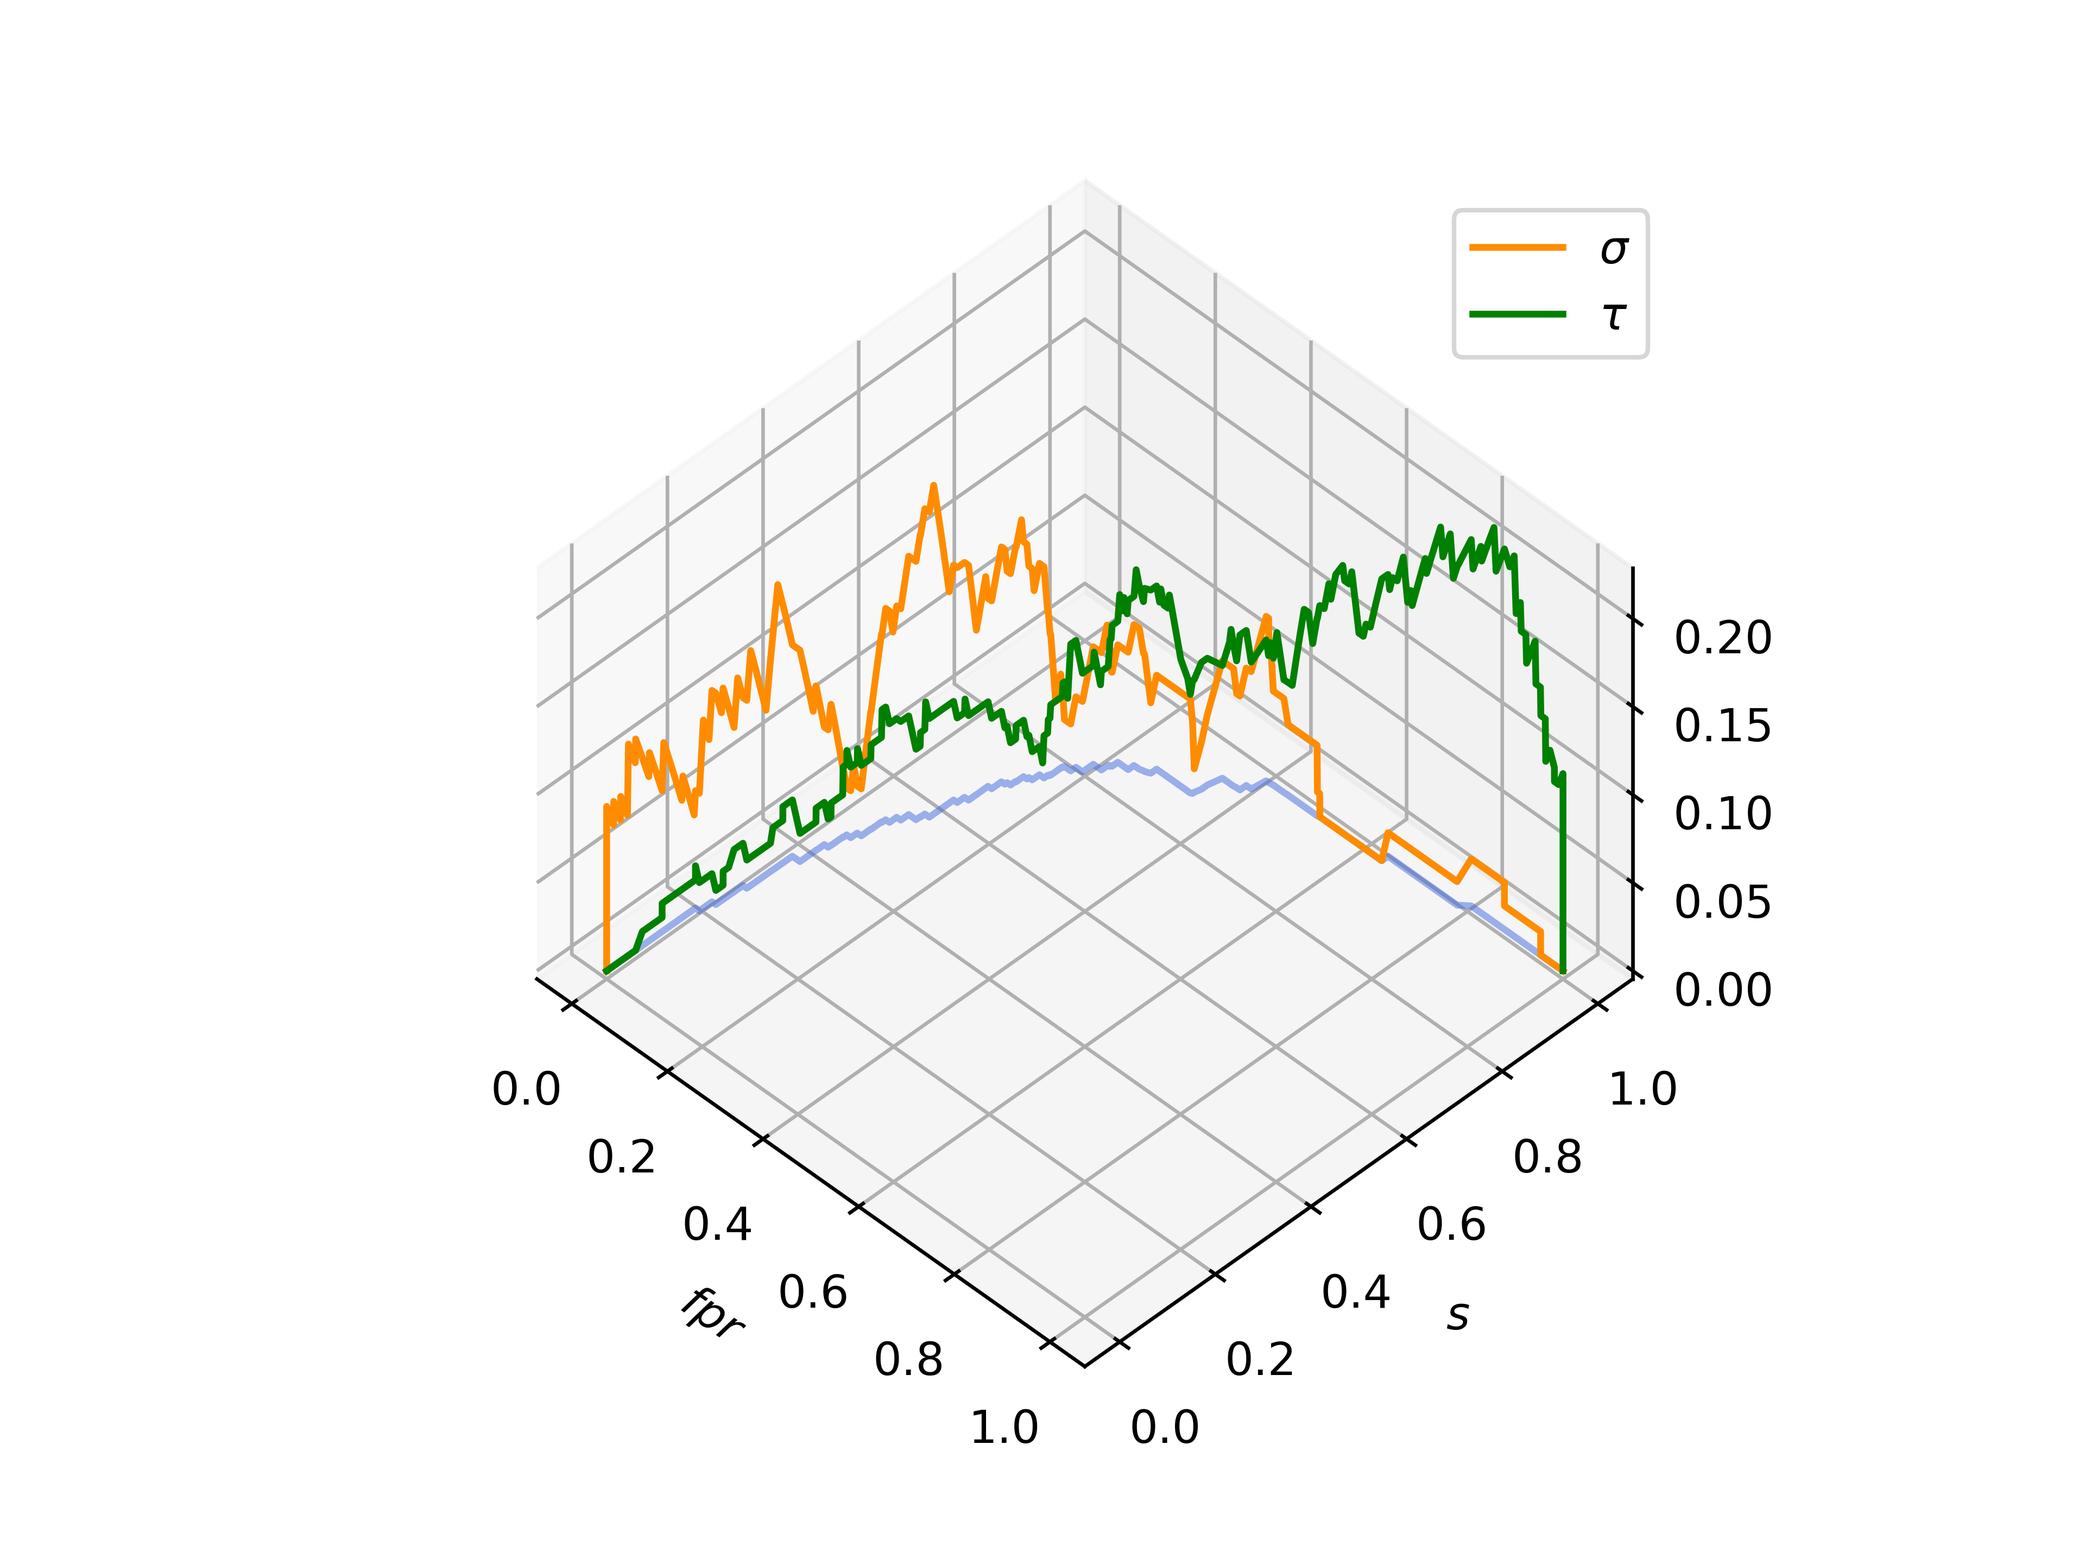
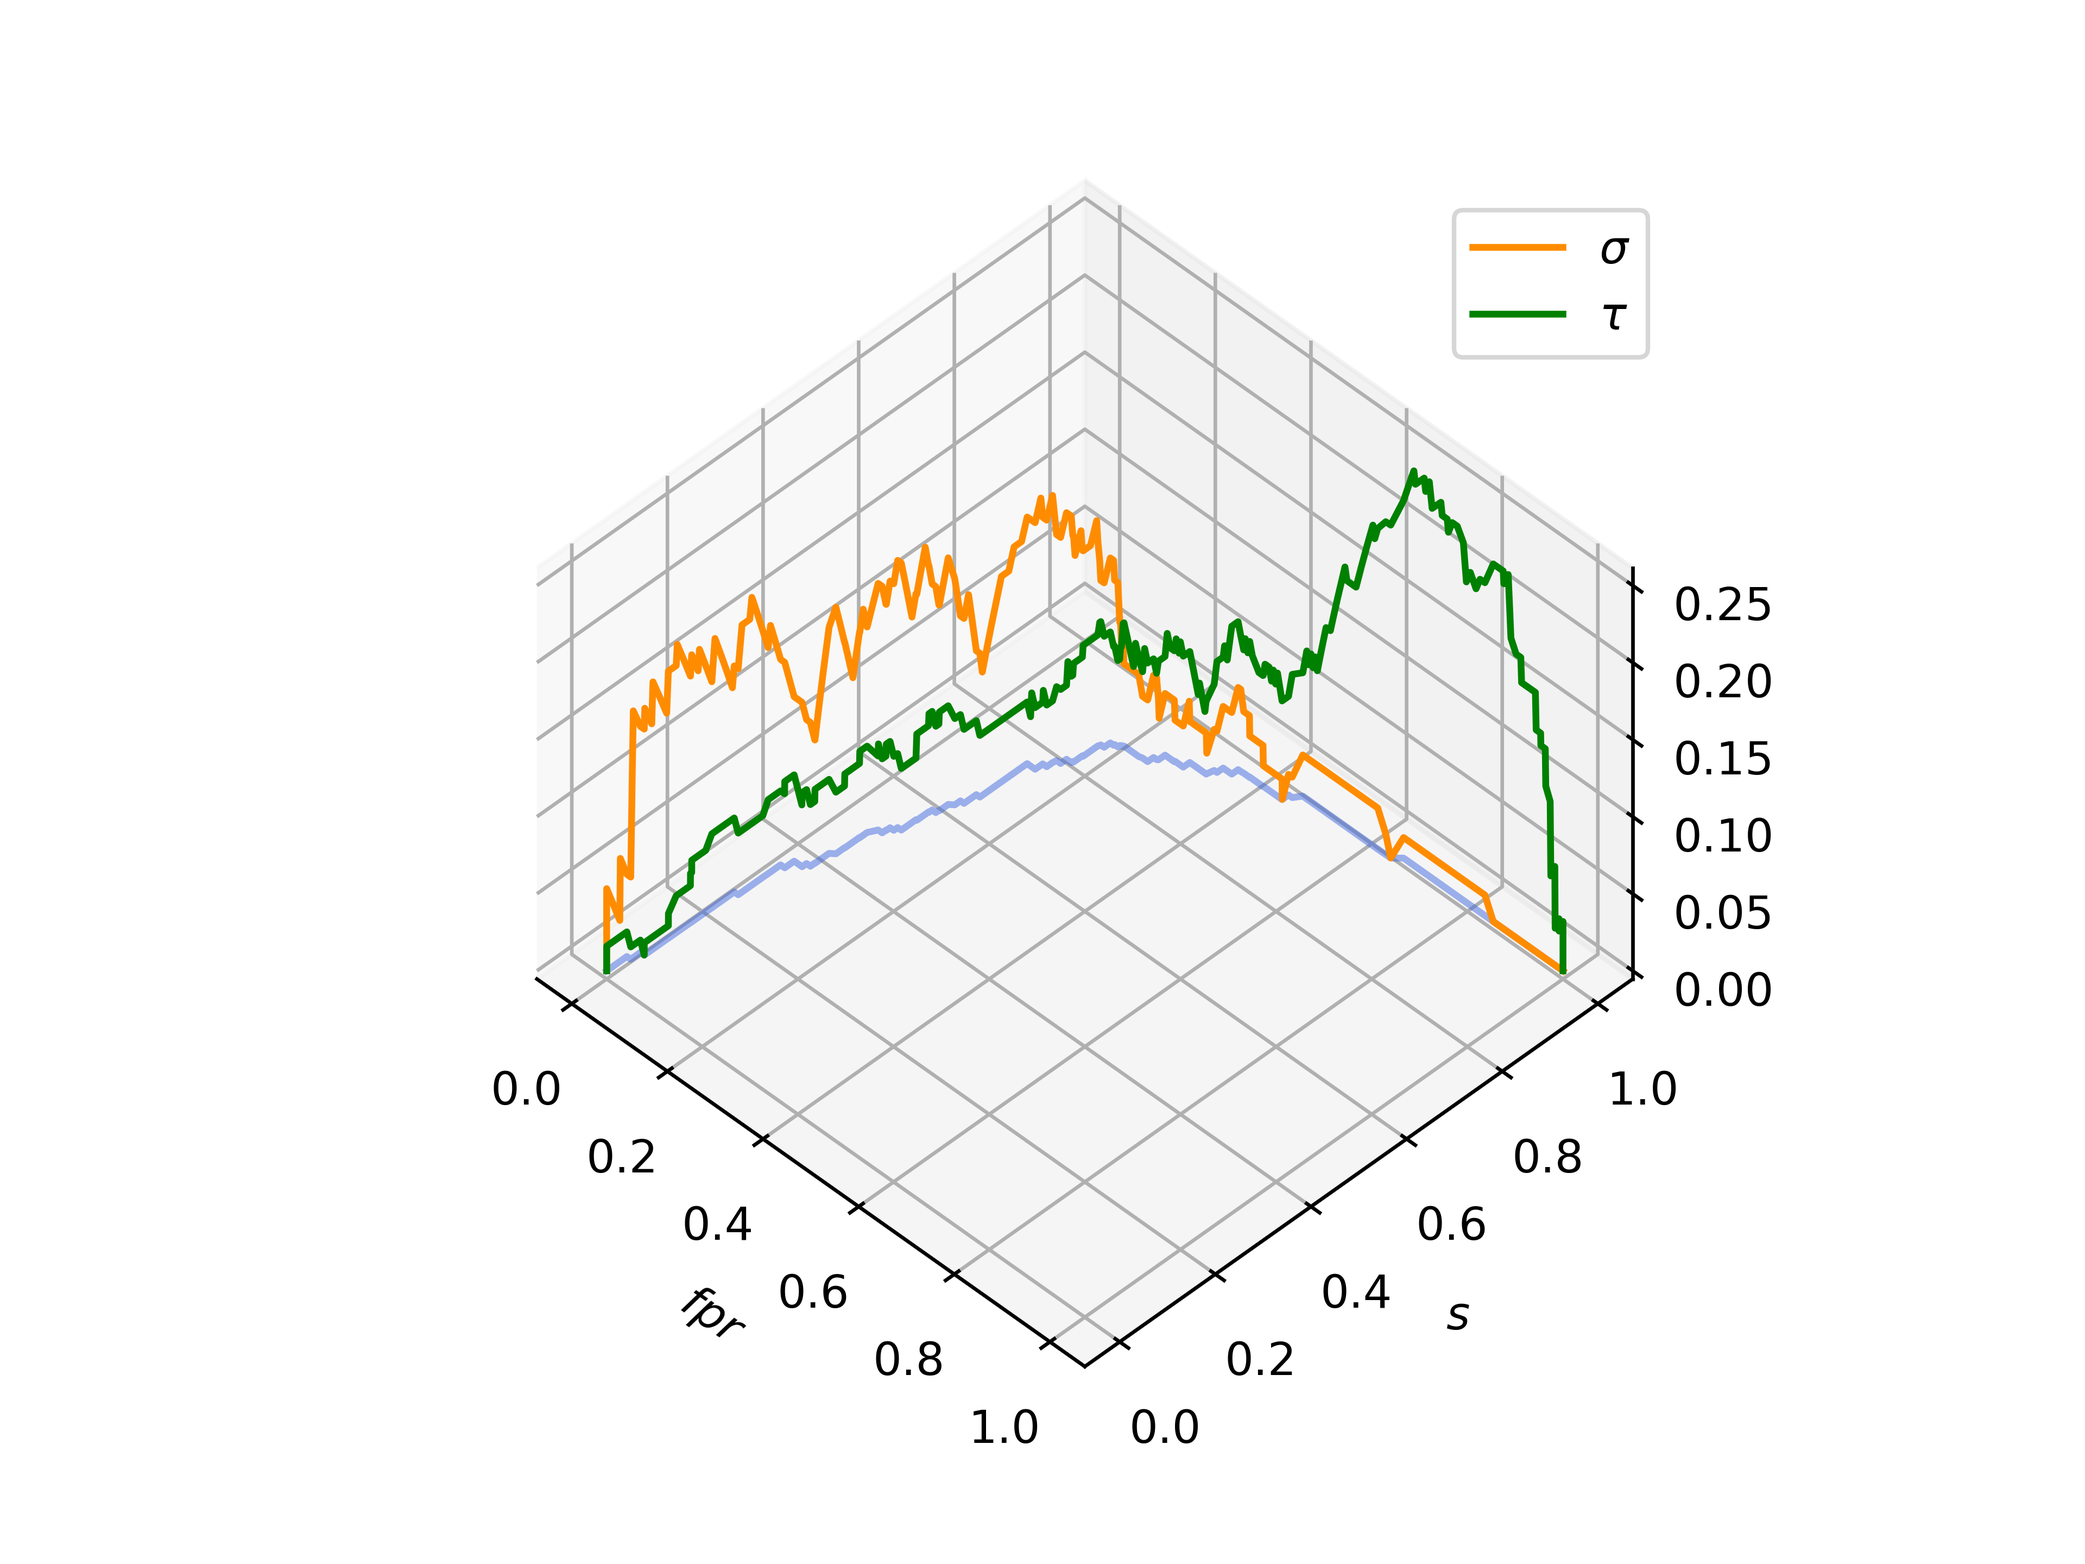
08MAR.01

diff --git a/redwine.py b/redwine.py
@@ -13,7 +13,7 @@ from LRF import *
 wine_data = pd.read_csv('winequality-red.csv',index_col = None,usecols = ['volatile acidity','citric acid','chlorides','pH','sulphates','alcohol','quality'])
 
 # Split the data into test/train factors and result and generate uncertain points
-random.seed(760) # for reproducability best 587 760
+random.seed(587) # for reproducability best 587 760
 goodwine = 7 # with with quality >= goodwine is considered high quality
 results = wine_data['quality'] >= goodwine
 
@@ -25,6 +25,8 @@ uq_data_index = random.sample([i for i in train_data.index if wine_data.loc[i,'q
 nuq_data_index = [i for i in train_data_index if i not in uq_data_index]
 
 uq_data = train_data.loc[uq_data_index]
+uq_results = pd.Series([pba.I(0,1)]*len(uq_data_index),index = uq_data_index,dtype = 'O')
+
 nuq_data = train_data.loc[nuq_data_index]
 nuq_results = train_results.loc[nuq_data_index]
 
@@ -40,165 +42,171 @@ uq_models = uc_logistic_regression(train_data,train_results,uq_data)
 nuq = LogisticRegression(max_iter=1000)
 nuq.fit(nuq_data.to_numpy(),nuq_results.to_numpy())
 
-### Get confusion matrix
-# Classify train data
-base_predict = base.predict(train_data)
+# ### Get confusion matrix
+# # Classify train data
+# base_predict = base.predict(train_data)
 
-# CLASSIFY NO_UQ MODEL DATA 
-nuq_predict = nuq.predict(train_data)
+# # CLASSIFY NO_UQ MODEL DATA 
+# nuq_predict = nuq.predict(train_data)
 
-# CLASSIFY UQ MODEL 
-train_predict = pd.DataFrame(columns = uq_models.keys())
+# # CLASSIFY UQ MODEL 
+# train_predict = pd.DataFrame(columns = uq_models.keys())
 
-for key, model in uq_models.items():
-    train_predict[key] = model.predict(train_data)
+# for key, model in uq_models.items():
+#     train_predict[key] = model.predict(train_data)
     
-predictions = []
-for i in train_predict.index:
-    predictions.append([min(train_predict.loc[i]),max(train_predict.loc[i])])
+# predictions = []
+# for i in train_predict.index:
+#     predictions.append([min(train_predict.loc[i]),max(train_predict.loc[i])])
 
-with open('runinfo/redwine_cm.out','w') as f:
-    print('TRUE MODEL',file = f)
-    a,b,c,d = generate_confusion_matrix(train_results,base_predict)
-    print('TP=%i\tFP=%i\nFN=%i\tTN=%i' %(a,b,c,d),file = f)
+# with open('runinfo/redwine_cm.out','w') as f:
+#     print('TRUE MODEL',file = f)
+#     a,b,c,d = generate_confusion_matrix(train_results,base_predict)
+#     print('TP=%i\tFP=%i\nFN=%i\tTN=%i' %(a,b,c,d),file = f)
 
-    # Calculate sensitivity and specificity
-    print('Sensitivity = %.3f' %(a/(a+c)),file = f)
-    print('Specificity = %.3f' %(d/(b+d)),file = f)
+#     # Calculate sensitivity and specificity
+#     print('Sensitivity = %.3f' %(a/(a+c)),file = f)
+#     print('Specificity = %.3f' %(d/(b+d)),file = f)
 
-    print('DISCARDED DATA MODEL',file = f)
-    aa,bb,cc,dd = generate_confusion_matrix(train_results,nuq_predict)
-    try:
-        ss = 1/(1+cc/aa)
-    except:
-        ss = None
-    try:    
-        tt = 1/(1+bb/dd)
-    except:
-        tt = None
-    print('TP=%s\tFP=%s\nFN=%s\tTN=%s' %(aa,bb,cc,dd),file = f)
+#     print('DISCARDED DATA MODEL',file = f)
+#     aa,bb,cc,dd = generate_confusion_matrix(train_results,nuq_predict)
+#     try:
+#         ss = 1/(1+cc/aa)
+#     except:
+#         ss = None
+#     try:    
+#         tt = 1/(1+bb/dd)
+#     except:
+#         tt = None
+#     print('TP=%s\tFP=%s\nFN=%s\tTN=%s' %(aa,bb,cc,dd),file = f)
 
-    # Calculate sensitivity and specificity
-    print('Sensitivity = %.3f' %(ss),file = f)
-    print('Specificity = %.3f' %(tt),file = f)
+#     # Calculate sensitivity and specificity
+#     print('Sensitivity = %.3f' %(ss),file = f)
+#     print('Specificity = %.3f' %(tt),file = f)
 
-    print('UQ MODEL',file = f)
+#     print('UQ MODEL',file = f)
     
-    aaai,bbbi,ccci,dddi = generate_confusion_matrix(train_results,predictions,throw = False)
-    try:
-        sssi = 1/(1+ccci/aaai)
-    except:
-        sssi = None
-    try:    
-        ttti = 1/(1+bbbi/dddi)
-    except:
-        ttti = None
+#     aaai,bbbi,ccci,dddi = generate_confusion_matrix(train_results,predictions,throw = False)
+#     try:
+#         sssi = 1/(1+ccci/aaai)
+#     except:
+#         sssi = None
+#     try:    
+#         ttti = 1/(1+bbbi/dddi)
+#     except:
+#         ttti = None
         
-    print('TP=[%i,%i]\tFP=[%i,%i]\nFN=[%i,%i]\tTN=[%i,%i]' %(*aaai,*bbbi,*ccci,*dddi),file = f)
+#     print('TP=[%i,%i]\tFP=[%i,%i]\nFN=[%i,%i]\tTN=[%i,%i]' %(*aaai,*bbbi,*ccci,*dddi),file = f)
 
-    # Calculate sensitivity and specificity
-    print('Sensitivity = [%.3f,%.3f]\nSpecificity = [%.3f,%.3f]' %(*sssi,*ttti),file = f)
-    aaa,bbb,ccc,ddd,eee,fff = generate_confusion_matrix(train_results,predictions,throw = True)
-    try:
-        sss = 1/(1+ccc/aaa)
-    except:
-        sss = None
-    try:    
-        ttt = 1/(1+bbb/ddd)
-    except:
-        ttt = None
+#     # Calculate sensitivity and specificity
+#     print('Sensitivity = [%.3f,%.3f]\nSpecificity = [%.3f,%.3f]' %(*sssi,*ttti),file = f)
+#     aaa,bbb,ccc,ddd,eee,fff = generate_confusion_matrix(train_results,predictions,throw = True)
+#     try:
+#         sss = 1/(1+ccc/aaa)
+#     except:
+#         sss = None
+#     try:    
+#         ttt = 1/(1+bbb/ddd)
+#     except:
+#         ttt = None
         
-    print('TP=%i\tFP=%i\nFN=%i\tTN=%i\nNP(+)=%i\tNP(-)=%i' %(aaa,bbb,ccc,ddd,eee,fff),file = f)
+#     print('TP=%i\tFP=%i\nFN=%i\tTN=%i\nNP(+)=%i\tNP(-)=%i' %(aaa,bbb,ccc,ddd,eee,fff),file = f)
 
-    # Calculate sensitivity and specificity
-    print('Sensitivity = %.3f' %(sss),file = f)
-    print('Specificity = %.3f' %(ttt),file = f)
+#     # Calculate sensitivity and specificity
+#     print('Sensitivity = %.3f' %(sss),file = f)
+#     print('Specificity = %.3f' %(ttt),file = f)
 
-### Descriminatory Performance Plots
-s,fpr,predictions = ROC(model = base, data = train_data, results = train_results)
-nuq_s,nuq_fpr,nuq_predictions = ROC(model = nuq, data = train_data, results = train_results)
-s_t, fpr_t, Sigma, Tau, Nu = UQ_ROC_alt(uq_models, train_data, train_results)
+# ### Descriminatory Performance Plots
+# # s,fpr,predictions = ROC(model = base, data = train_data, results = train_results)
+# nuq_s,nuq_fpr,nuq_predictions = ROC(model = nuq, data = train_data, results = train_results)
+# s_t, fpr_t, Sigma, Tau, Nu = UQ_ROC_alt(uq_models, train_data, train_results)
 
-s_i, fpr_i,uq_predictions = UQ_ROC(uq_models, train_data, train_results)
+# s_i, fpr_i,uq_predictions = UQ_ROC(uq_models, train_data, train_results)
 
-densfig,axdens = plt.subplots(nrows = 2, sharex= True)
+# densfig,axdens = plt.subplots(nrows = 2, sharex= True)
 
-for i,(p,u,nuqp,r) in enumerate(zip(predictions,uq_predictions,nuq_predictions,train_results.to_list())):
-    yd = np.random.uniform(-0.11,-.31)
-    if r:
-        axdens[0].scatter(p,np.random.uniform(-0.1,0.1),color = 'k',marker = 'o',alpha = 0.5)
-        axdens[0].scatter(nuqp,np.random.uniform(0.11,0.31),color = '#DC143C',marker = 'o',alpha = 0.5)
-        axdens[0].plot([u[0],u[1]],[yd,yd],color = '#4169E1',alpha = 0.3)
-        axdens[0].scatter([u[0],u[1]],[yd,yd],color = '#4169E1',marker = '|')
-    else:
-        axdens[1].scatter(p,np.random.uniform(-.1,0.1),color = 'k',marker = 'o',alpha = 0.5)
-        axdens[1].scatter(nuqp,np.random.uniform(0.11,.31),color = '#DC143C',marker = 'o',alpha = 0.5)
-        axdens[1].plot([u[0],u[1]],[yd,yd],color = '#4169E1',alpha = 0.3)
-        axdens[1].scatter([u[0],u[1]],[yd,yd],color = '#4169E1',marker = '|')
+# for i,(p,u,nuqp,r) in enumerate(zip(predictions,uq_predictions,nuq_predictions,train_results.to_list())):
+#     yd = np.random.uniform(-0.01,-.31)
+#     if r:
+#         # axdens[0].scatter(p,np.random.uniform(-0.1,0.1),color = 'k',marker = 'o',alpha = 0.5)
+#         axdens[0].scatter(nuqp,np.random.uniform(0.01,0.31),color = '#DC143C',marker = 'o',alpha = 0.5)
+#         axdens[0].plot([u[0],u[1]],[yd,yd],color = '#4169E1',alpha = 0.3)
+#         axdens[0].scatter([u[0],u[1]],[yd,yd],color = '#4169E1',marker = '|')
+#     else:
+#         # axdens[1].scatter(p,np.random.uniform(-.1,0.1),color = 'k',marker = 'o',alpha = 0.5)
+#         axdens[1].scatter(nuqp,np.random.uniform(0.11,.31),color = '#DC143C',marker = 'o',alpha = 0.5)
+#         axdens[1].plot([u[0],u[1]],[yd,yd],color = '#4169E1',alpha = 0.3)
+#         axdens[1].scatter([u[0],u[1]],[yd,yd],color = '#4169E1',marker = '|')
         
         
-axdens[0].set(ylabel = 'Outcome = 1',yticks = [],xlim=[0,1],xticks = [0,0.25,0.50,0.75,1])
-axdens[1].set(xlabel = '$\pi$',ylabel = 'Outcome = 0',yticks = [])
-densfig.tight_layout()
+# axdens[0].set(ylabel = 'Outcome = 1',yticks = [],xlim=[0,1],xticks = [0,0.25,0.50,0.75,1])
+# axdens[1].set(xlabel = '$\pi$',ylabel = 'Outcome = 0',yticks = [])
+# densfig.tight_layout()
 
-rocfig,axroc = plt.subplots(1,1)
-axroc.plot([0,1],[0,1],'k:',label = 'Random Classifier')
-axroc.set(xlabel = '$fpr$',ylabel='$s$')
-axroc.plot(fpr,s,'k',label = 'Base')
-axroc.plot(nuq_fpr,nuq_s,color='#DC143C',linestyle='--',label='No Uncertainty')
-axroc.plot(fpr_t,s_t,'#4169E1',label='Uncertain (No prediction)')
-axroc.legend()
-rocfig.savefig('figs/redwine_ROC.png',dpi = 600)
-rocfig.savefig('../paper/figs/redwine_ROC.png',dpi = 600)
-densfig.savefig('figs/redwine_dens.png',dpi =600)
-densfig.savefig('../paper/figs/redwine_dens.png',dpi =600)
+# rocfig,axroc = plt.subplots(1,1)
+# axroc.plot([0,1],[0,1],'k:',label = 'Random Classifier')
+# axroc.set(xlabel = '$fpr$',ylabel='$s$')
+# # axroc.plot(fpr,s,'k',label = 'Base')
+# axroc.plot(nuq_fpr,nuq_s,color='#DC143C',label='No Uncertainty')
+# axroc.plot(fpr_t,s_t,'#4169E1',label='Uncertain (No prediction)')
+# axroc.legend()
+# rocfig.savefig('figs/redwine_ROC.png',dpi = 600)
+# rocfig.savefig('../paper/figs/redwine_ROC.png',dpi = 600)
+# densfig.savefig('figs/redwine_dens.png',dpi =600)
+# densfig.savefig('../paper/figs/redwine_dens.png',dpi =600)
 
 
-with open('runinfo/redwine_auc.out','w') as f:
-    print('NO UNCERTAINTY: %.3f' %auc(s,fpr), file = f)
-    print('MIDPOINTS: %.4F' %auc(nuq_s,nuq_fpr),file = f)
-    print('THROW: %.3f' %auc(s_t,fpr_t), file = f)
-    # print('INTERVALS: [%.3f,%.3f]' %(auc_int_min,auc_int_max), file = f)
+# with open('runinfo/redwine_auc.out','w') as f:
+#     # print('NO UNCERTAINTY: %.3f' %auc(s,fpr), file = f)
+#     print('MIDPOINTS: %.4F' %auc(nuq_s,nuq_fpr),file = f)
+#     print('THROW: %.3f' %auc(s_t,fpr_t), file = f)
+#     # print('INTERVALS: [%.3f,%.3f]' %(auc_int_min,auc_int_max), file = f)
     
 
 
-fig = plt.figure()
-ax = plt.axes(projection='3d',elev = 45,azim = -45,proj_type = 'ortho')
-ax.set_xlabel('$fpr$')
-ax.set_ylabel('$s$')
-# ax.set_zlabel('$1-\sigma,1-\\tau$')
-ax.plot(fpr_t,s_t,'#4169E1',alpha = 0.5)
-ax.plot3D(fpr_t,s_t,Sigma,'#FF8C00',label = '$\\sigma$')
-ax.plot3D(fpr_t,s_t,Tau,'#008000',label = '$\\tau$')
-# ax.plot3D(fpr,s,Nu,'k',label = '$1-\\nu$')
+# fig = plt.figure()
+# ax = plt.axes(projection='3d',elev = 45,azim = -45,proj_type = 'ortho')
+# ax.set_xlabel('$fpr$')
+# ax.set_ylabel('$s$')
+# # ax.set_zlabel('$1-\sigma,1-\\tau$')
+# ax.plot(fpr_t,s_t,'#4169E1',alpha = 0.5)
+# ax.plot3D(fpr_t,s_t,Sigma,'#FF8C00',label = '$\\sigma$')
+# ax.plot3D(fpr_t,s_t,Tau,'#008000',label = '$\\tau$')
+# # ax.plot3D(fpr,s,Nu,'k',label = '$1-\\nu$')
 
-ax.legend()
+# ax.legend()
 
-plt.savefig('figs/redwine_ROC3D.png',dpi = 600)
-plt.savefig('../paper/figs/redwine_ROC3D.png',dpi = 600)
-plt.clf()
+# plt.savefig('figs/redwine_ROC3D.png',dpi = 600)
+# plt.savefig('../paper/figs/redwine_ROC3D.png',dpi = 600)
+# plt.clf()
 
-plt.xlabel('$fpr$/$s$')
-plt.ylabel('$\\sigma$/$\\tau$')
-plt.plot(s_t,Sigma,'#FF8C00',label = '$\\sigma$ v $s$')
-plt.plot(fpr_t,Tau,'#008000',label = '$\\tau$ v $fpr$')
-plt.legend()
+# plt.xlabel('$fpr$/$s$')
+# plt.ylabel('$\\sigma$/$\\tau$')
+# plt.plot(s_t,Sigma,'#FF8C00',label = '$\\sigma$ v $s$')
+# plt.plot(fpr_t,Tau,'#008000',label = '$\\tau$ v $fpr$')
+# plt.legend()
 
 
-plt.savefig('figs/redwine_ST.png',dpi = 600)
-plt.savefig('../paper/figs/redwine_ST.png',dpi = 600)
+# plt.savefig('figs/redwine_ST.png',dpi = 600)
+# plt.savefig('../paper/figs/redwine_ST.png',dpi = 600)
 
-plt.clf()
+# plt.clf()
 
 ### Hosmer-Lemeshow
-hl_b, pval_b = hosmer_lemeshow_test(base,train_data,train_results,g = 10)
+# hl_b, pval_b = hosmer_lemeshow_test(base,train_data,train_results,g = 10)
 
 hl_nuq, pval_nuq = hosmer_lemeshow_test(nuq,train_data,train_results,g = 10)
+hl_nuq0, pval_nuq0 = hosmer_lemeshow_test(nuq,nuq_data,nuq_results,g = 10)
+
 
 hl_uq, pval_uq = UQ_hosmer_lemeshow_test(uq_models,train_data,train_results,g = 10)
+hl_uq0, pval_uq0 = UQ_hosmer_lemeshow_test(uq_models,pd.concat([nuq_data,uq_data]),pd.concat([nuq_results,uq_results]),g = 10)
+
 
 with open('runinfo/redwine_HL.out','w') as f:
-    print('base\nhl = %.3f, p = %.3f' %(hl_b,pval_b),file = f)
-    print('no UQ\nhl = %.3f, p = %.3f' %(hl_nuq,pval_nuq),file = f) 
-    print('UQ\nhl = [%.3f,%.3f], p = [%.3f,%.3f]' %(*hl_uq,*pval_uq),file = f)
+    print('no UQ\nhl = %.3f, p = %.3f' %(hl_nuq0,pval_nuq0),file = f)
+    print('no UQ(full)\nhl = %.3f, p = %.3f' %(hl_nuq,pval_nuq),file = f) 
+    print('UQ\nhl = [%.3f,%.3f], p = [%.3f,%.3f]' %(*hl_uq0,*pval_uq0),file = f)
+    print('UQ(full)\nhl = [%.3f,%.3f], p = [%.3f,%.3f]' %(*hl_uq,*pval_uq),file = f)
+    
     

diff --git a/LRF.py b/LRF.py
@@ -463,20 +463,21 @@ def UQ_hosmer_lemeshow_test(models, data, results, g=10):
         idx = probs.iloc[round(s*i):round(s*(1+i))].index
 
         buckets[i] = {
-            'observed_cases': sum(results.loc[idx]),
+            'observed_cases': pba.I(sum(results.loc[idx])),
             'expected_cases': sum(probs.loc[idx,1]),
-            'observed_n_cases': len(idx) - sum(results.loc[idx]),
+            'observed_n_cases': pba.I(len(idx) - sum(results.loc[idx])),
             'expected_n_cases': sum(probs.loc[idx,0])
         }
+        
     # print(buckets)
     hl = 0
     for i in range(g):
         
-        cl = ((buckets[i]['observed_cases'] - buckets[i]['expected_cases'].Left)**2)/buckets[i]['expected_cases'].Left
-        cr = ((buckets[i]['observed_cases'] - buckets[i]['expected_cases'].Right)**2)/buckets[i]['expected_cases'].Right
+        cl = ((buckets[i]['observed_cases'].Left - buckets[i]['expected_cases'].Left)**2)/buckets[i]['expected_cases'].Left
+        cr = ((buckets[i]['observed_cases'].Right - buckets[i]['expected_cases'].Right)**2)/buckets[i]['expected_cases'].Right
         
-        nl = ((buckets[i]['observed_n_cases'] - buckets[i]['expected_n_cases'].Left)**2)/buckets[i]['expected_n_cases'].Left
-        nr = ((buckets[i]['observed_n_cases'] - buckets[i]['expected_n_cases'].Right)**2)/buckets[i]['expected_n_cases'].Right
+        nl = ((buckets[i]['observed_n_cases'].Left - buckets[i]['expected_n_cases'].Left)**2)/buckets[i]['expected_n_cases'].Left
+        nr = ((buckets[i]['observed_n_cases'].Right - buckets[i]['expected_n_cases'].Right)**2)/buckets[i]['expected_n_cases'].Right
             
         if pba.always(buckets[i]['observed_cases'] - buckets[i]['expected_cases'] != 0):
             hl += pba.I(cl+nr,cr+nl)
